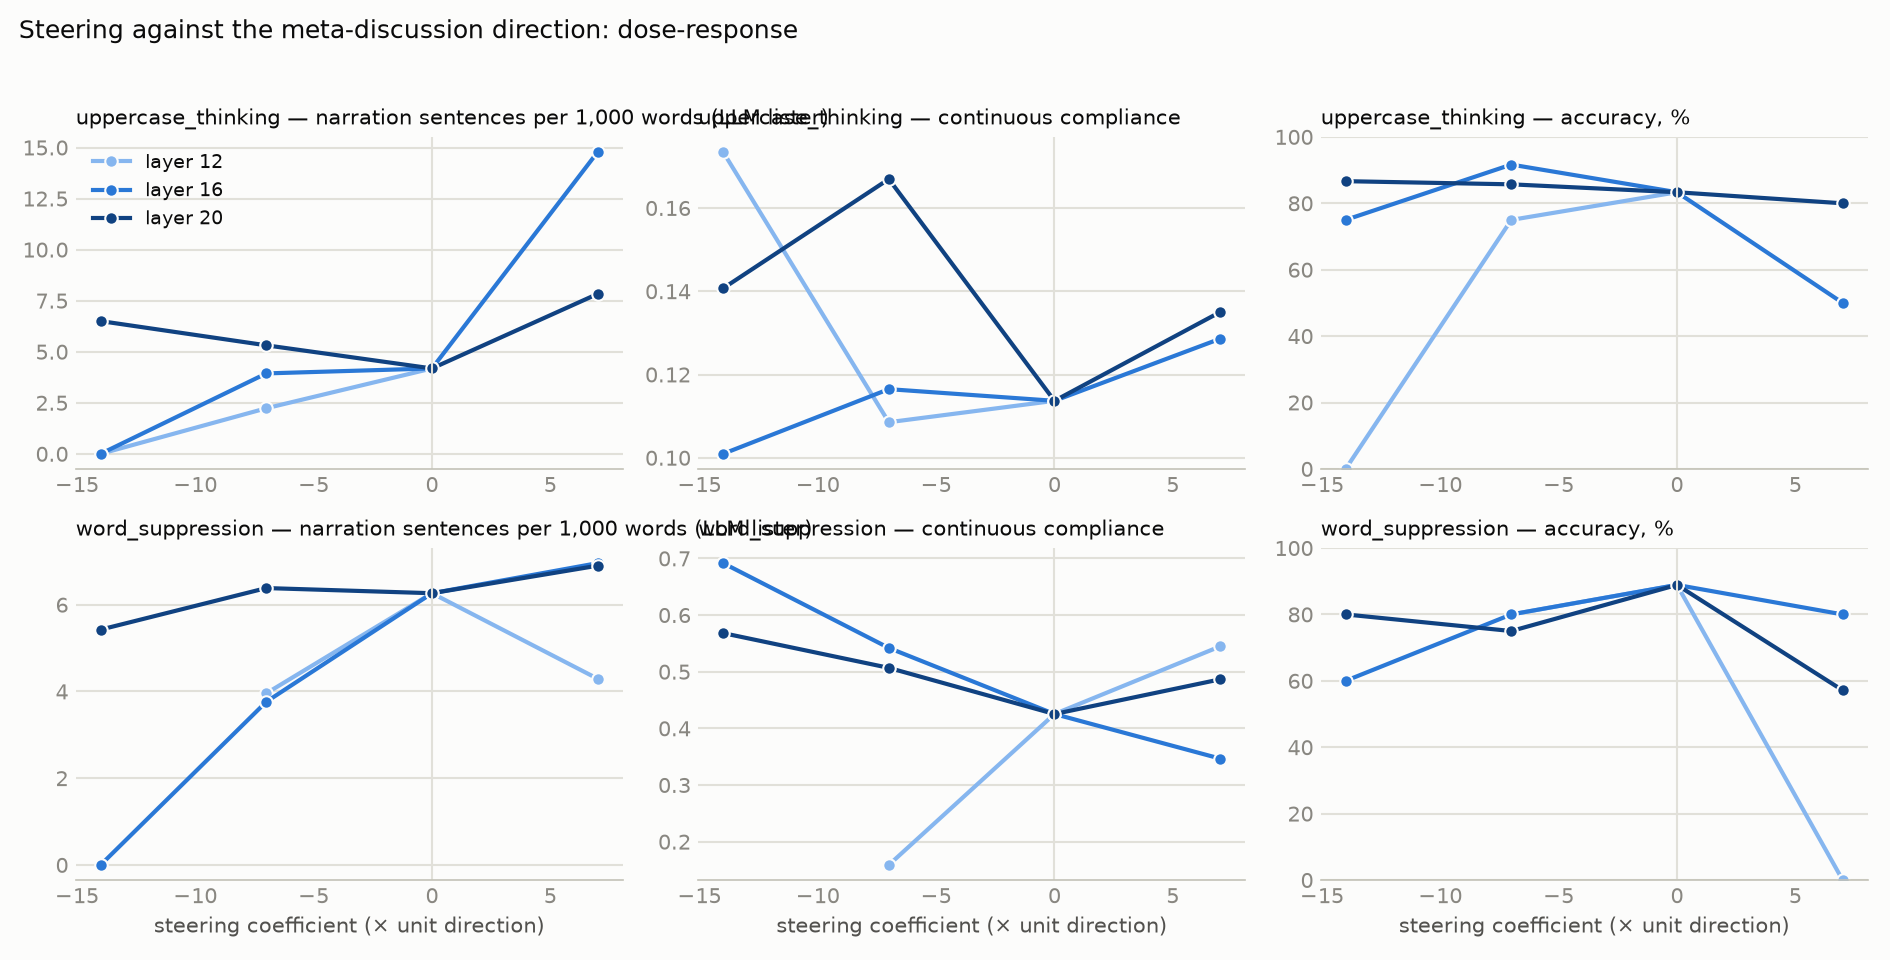
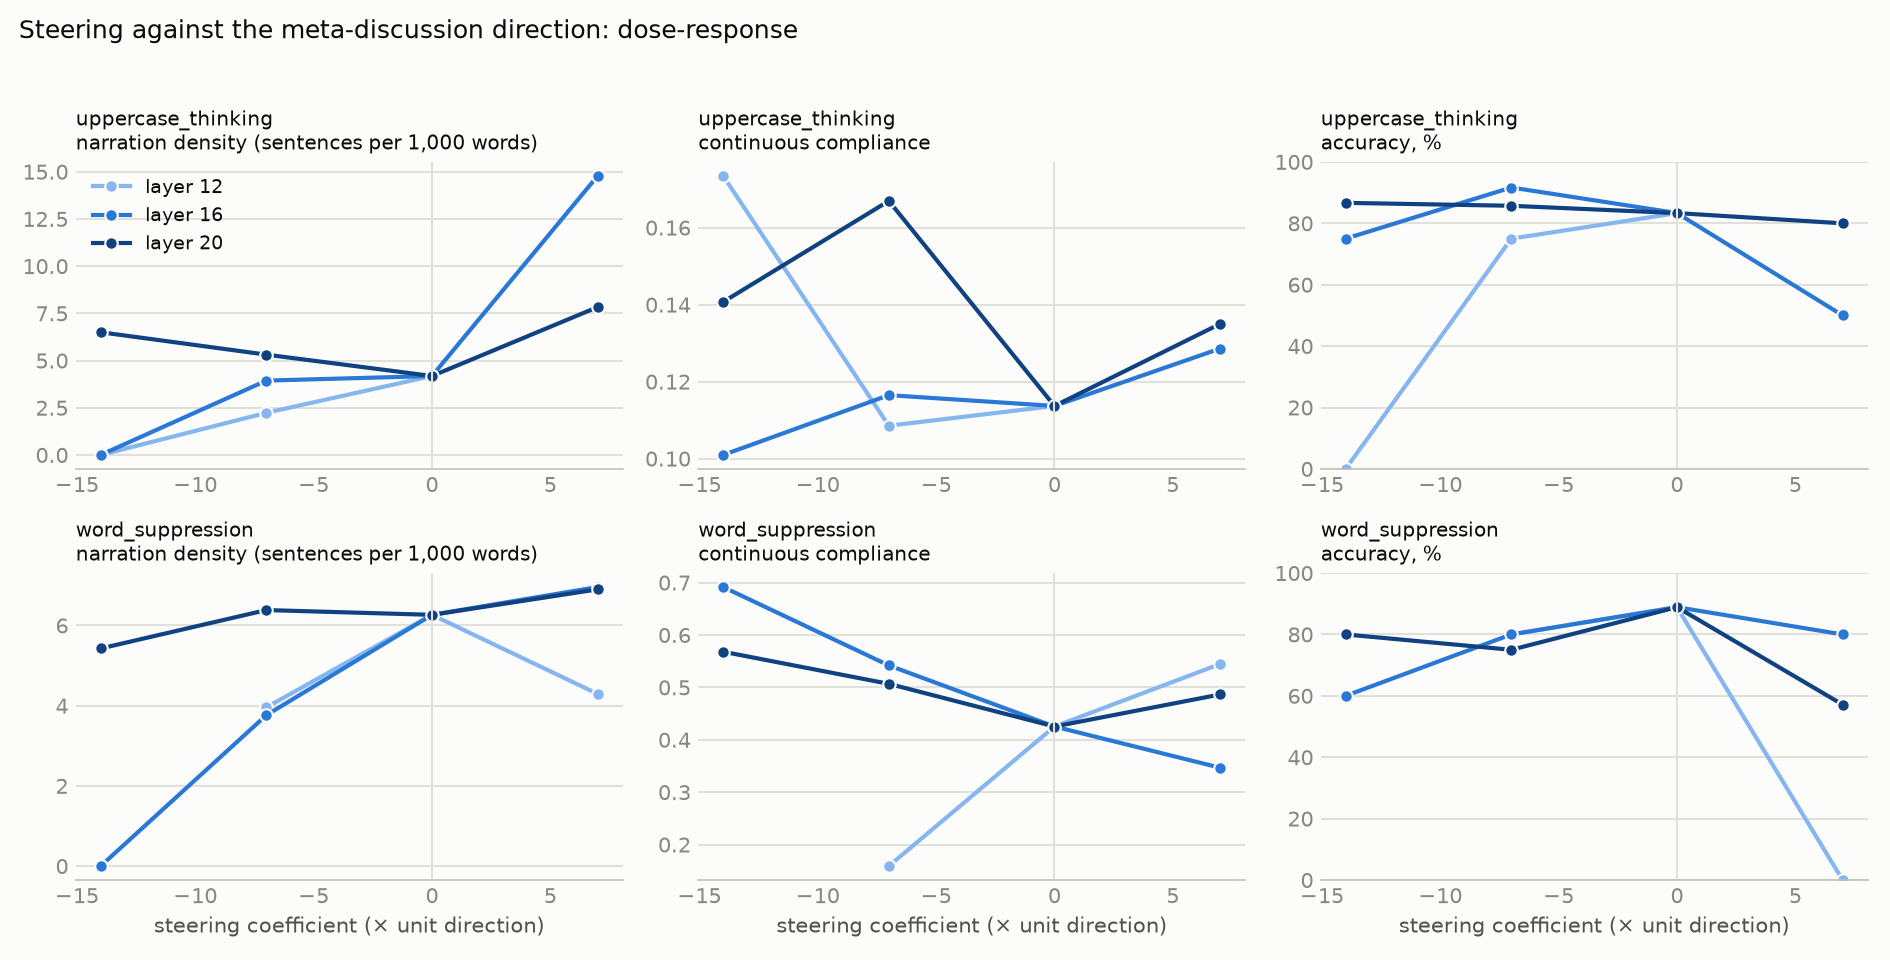
steer figure: two-line panel titles

diff --git a/scripts/steer/eval_steered.py b/scripts/steer/eval_steered.py
@@ -59,7 +59,7 @@ async def main() -> int:
         import matplotlib; matplotlib.use("Agg"); import matplotlib.pyplot as plt
         SURF, INK, INK2, MUTED, GRID, BASE = "#fcfcfb", "#0b0b0b", "#52514e", "#898781", "#e1e0d9", "#c3c2b7"; RAMP = {12: "#86b6ef", 16: "#2a78d6", 20: "#104281"}
         plt.rcParams.update({"font.family": "sans-serif", "font.size": 10, "text.color": INK, "axes.labelcolor": INK2, "xtick.color": MUTED, "ytick.color": MUTED, "axes.edgecolor": BASE, "axes.facecolor": SURF, "figure.facecolor": SURF, "savefig.facecolor": SURF, "axes.spines.top": False, "axes.spines.right": False})
-        modes = sorted({g["mode"] for g in agg}); metrics = [("llm_density", "narration sentences per 1,000 words (LLM lister)", False), ("continuous", "continuous compliance", False), ("accuracy", "accuracy, %", True)]
+        modes = sorted({g["mode"] for g in agg}); metrics = [("llm_density", "narration density (sentences per 1,000 words)", False), ("continuous", "continuous compliance", False), ("accuracy", "accuracy, %", True)]
         fig, axes = plt.subplots(len(modes), len(metrics), figsize=(4.2 * len(metrics), 3.2 * len(modes)), dpi=150, squeeze=False)
         for i, m in enumerate(modes):
             for j, (k, lab, pct) in enumerate(metrics):
@@ -70,7 +70,7 @@ async def main() -> int:
                     ax.plot([p[0] for p in pts], [(100 * p[1] if pct else p[1]) for p in pts], marker="o", ms=6, lw=2, color=RAMP.get(L, INK2), markeredgecolor=SURF, label=f"layer {L}")
                 ax.axvline(0, color=GRID, lw=1); ax.yaxis.grid(True, color=GRID, lw=1); ax.set_axisbelow(True); ax.tick_params(length=0); ax.spines["left"].set_visible(False)
                 if i == len(modes) - 1: ax.set_xlabel("steering coefficient (× unit direction)", color=INK2)
-                ax.set_title(f"{m} — {lab}", loc="left", fontsize=10, color=INK)
+                ax.set_title(f"{m}\n{lab}", loc="left", fontsize=9.5, color=INK)
                 if pct: ax.set_ylim(0, 100)
         axes[0][0].legend(frameon=False, fontsize=9)
         fig.suptitle("Steering against the meta-discussion direction: dose-response", x=0.01, ha="left", fontsize=12, color=INK); fig.tight_layout(rect=(0, 0, 1, 0.96)); fig.savefig(REPO / "figures/steer_dose_response.png"); plt.close(fig)
